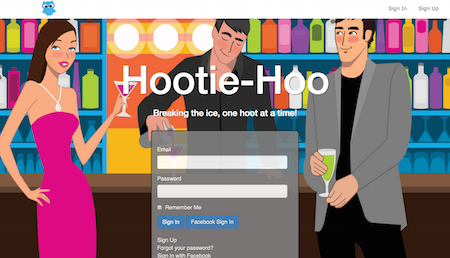
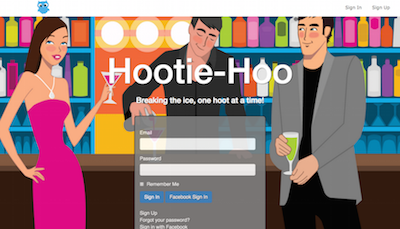
optimizing for mobile

diff --git a/public/index2.html b/public/index2.html
@@ -45,7 +45,7 @@
 
 <body>
   <div class="body">
-  <div class="row">
+    <div class="row">
 
       <!--  <div class="container-head">
       <div class="header">-->
@@ -57,7 +57,7 @@
         </div>
       </div>
 
-      <div class="col-xs-12 col-md-4">
+      <div class="col-xs-6 col-md-4">
         <img class='img-circle' src="BB_profile.jpg" alt="Beatriz Bustamante" height="200" width="250" float="right">
       </div>
 
@@ -84,13 +84,13 @@
         </a>
       </div>
     </div>
-  </div>
+    <br>
+
     <!-- Example row of columns -->
     <div class="container-fluid">
       <div class="section1">
-        <h3><a href="http://www.hootie-hoo.co/">HOOTIE-HOO</a></h3>
+        <h3 id="blue2"><a href="http://www.hootie-hoo.co/">HOOTIE-HOO</a></h3>
         <h4 id="blue">Final project Wyncode 2015 - A geolocation based chat application that connects people in a given venue through text based games.</h4>
-        <div class="container-fluid">
           <div id="hootie-img">
             <a href="http://www.hootie-hoo.co/"><img src="hootie-hoo-home.png" alt="Hootie-Hoo" height="300" width="400"></a>
           </div>
@@ -98,7 +98,6 @@
           </div>
       </div>
     </div>
-  </div>
     <div class="container-fluid">
       <div class="section2">
         <h3><a href="http://nalogistics.com/"> Nalogistics SEO Optimization</a></h3>
@@ -113,33 +112,31 @@
         </div>
       </div>
     </div>
-    <br>
+
     <div class="container-fluid">
       <div class="section3">
         <h3><a href="https://github.com/beatrizbu">Git Hub - Voter's Sim, YHOO Stock API and REPL Game</a></h3>
         <h4>Repositories of solo and group projects as well as current apps written in Ruby, Ruby Rails, JavaScript, jQuery, HTML and CSS.</h4>
-        <div class"row">
-        <div class="col-xs-6 col-md-4">
+
+        <div class="col-xs-4">
           <p><a class="btn btn-primary" href="https://github.com/beatrizbu/yahoo_stock" role="button">YHOO STOCK API &raquo;</a></p>
           <div id="stock-img">
             <a href="https://github.com/beatrizbu/yahoo_stock"><img src="yhoo_stock.png" alt="YHOO STOCK API"></a>
           </div>
         </div>
-        <div class="col-xs-6 col-md-4">
+        <div class="col-xs-4">
           <p><a class="btn btn-primary" href="https://github.com/beatrizbu/repl" role="button">ER REPL Game &raquo;</a></p>
           <div id="repl-img">
             <a href="https://github.com/beatrizbu/repl"><img src="repl_game.png" alt="Hootie-Hoo"></a>
           </div>
         </div>
-        <div class="col-xs-6 col-md-4">
+        <div class="col-xs-4">
           <p><a class="btn btn-primary" href="https://github.com/beatrizbu/voter_simulator" role="button">Voter's Simulator &raquo;</a></p>
           <div id="voters-img">
             <a href="https://github.com/beatrizbu/voter_simulator"><img src="voters_simulation.png" alt="Voter's Sim"></a>
           </div>
         </div>
-      </div>
     </div>
-  </div>
   <!-- Site footer -->
   <p>
     <!-- <footer>

diff --git a/public/bbu_profile.css b/public/bbu_profile.css
@@ -54,14 +54,14 @@ img {
 
 }
 
-.section1 #blue2 {
-  width: 200px;
+.section1 h3 {
+  width: 100%;
     text-align: center;
-    background-color: #C5BCB0;
     padding-left: 5px;
 }
 .section2 {
     width: 100%;
+    height: 450px;
     background-color: #eee;
     background-image: url("NATS_timeline6.png");
     background-repeat: repeat-x;
@@ -79,6 +79,7 @@ img {
 }
 
 .section3 {
+    overflow:auto;
     width: 100%;
     height: 450px;
     background-color: #000;
@@ -87,6 +88,12 @@ img {
     repeat: no-repeat;
 }
 
+.section3 h3 {
+    width: 100%;
+    text-align: center;
+    background-color: #000;
+    padding-left: 20px;
+}
 
 .section3 h4 {
   text-align: center;
@@ -97,7 +104,7 @@ img {
   margin-right: 20px;
 }
 
-.row #color{
+.section2 #color{
   text-align: center;
   background-color: #C0A9CE;
   padding: 8px;
@@ -106,7 +113,7 @@ img {
 }
 
 
-.row #blue {
+.section1 #blue {
     text-align: center;
     background-color: #4DB0E6;
     padding: 8px;
@@ -473,7 +480,7 @@ transform:scale(0.95);
   background: transparent;
 }
 .btn btn-primary{
-text: align
+text: align;
 }
 
 .footer {
@@ -489,6 +496,7 @@ text: align
   padding: 15px 60px 15px 60px
   background-color: transparent;
 }
+
 #bootstrap-overrides{
 background-color:#FFFFFF;
 }
